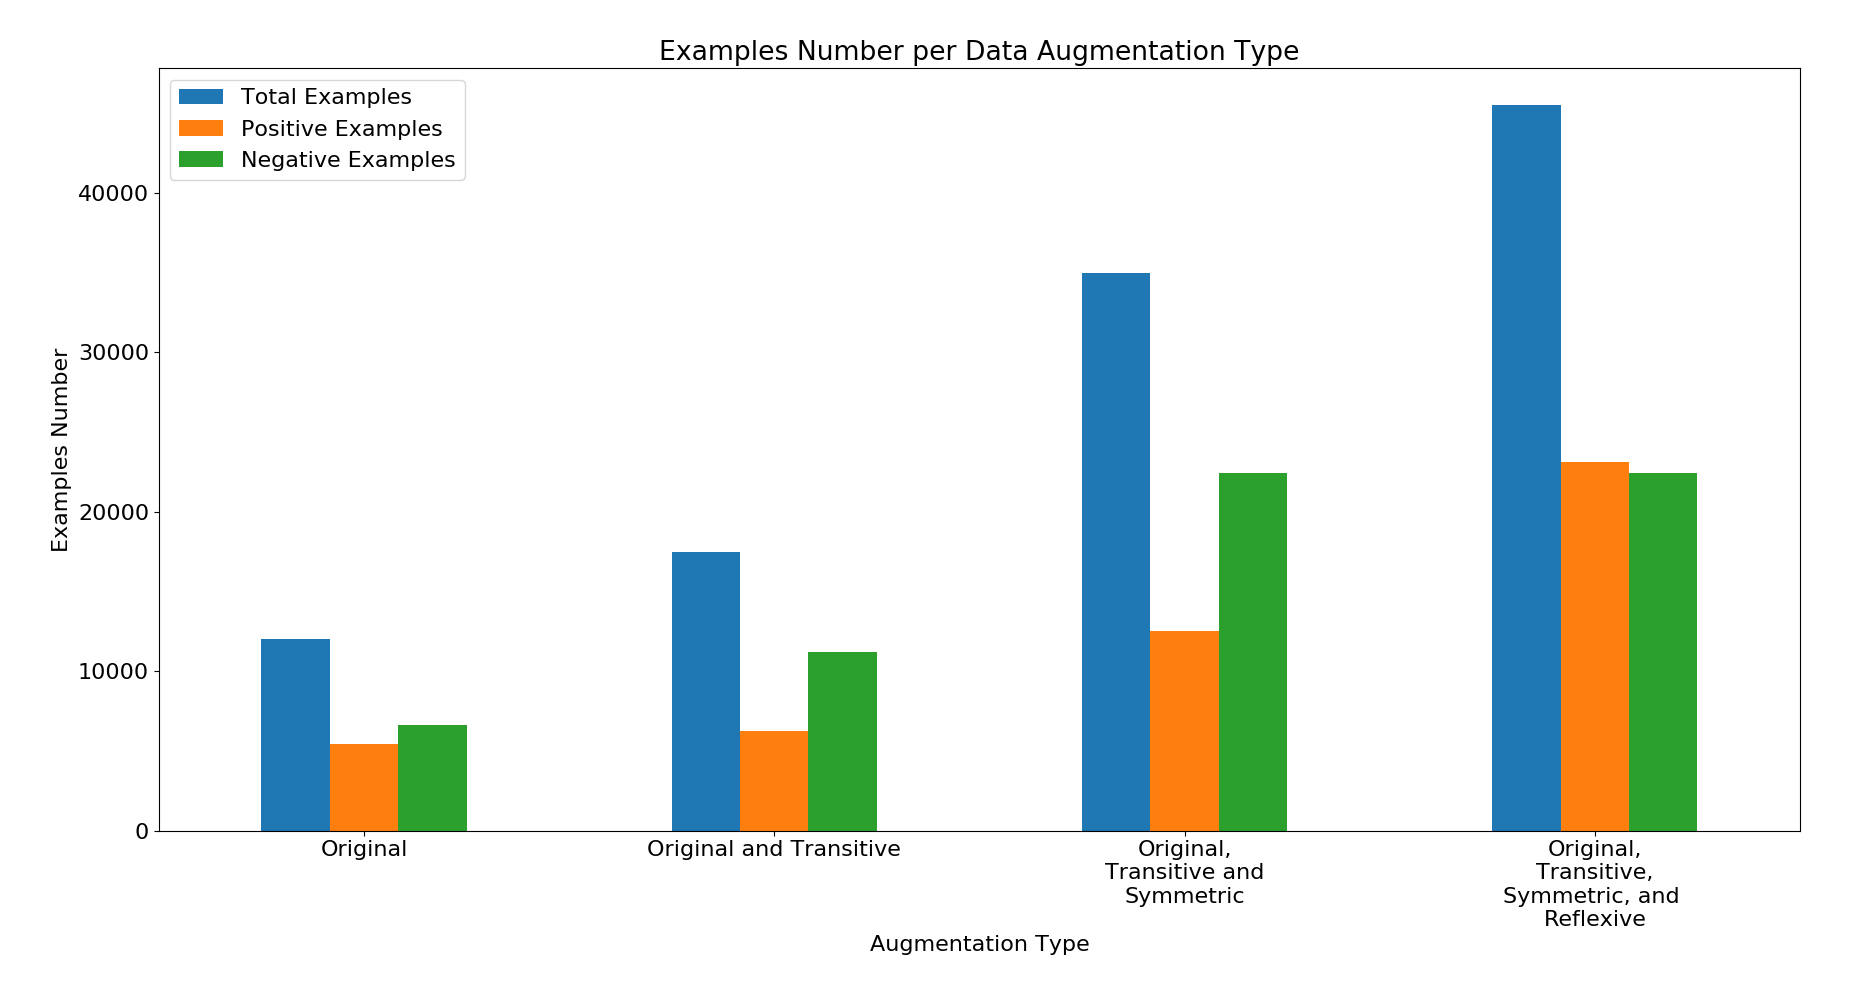
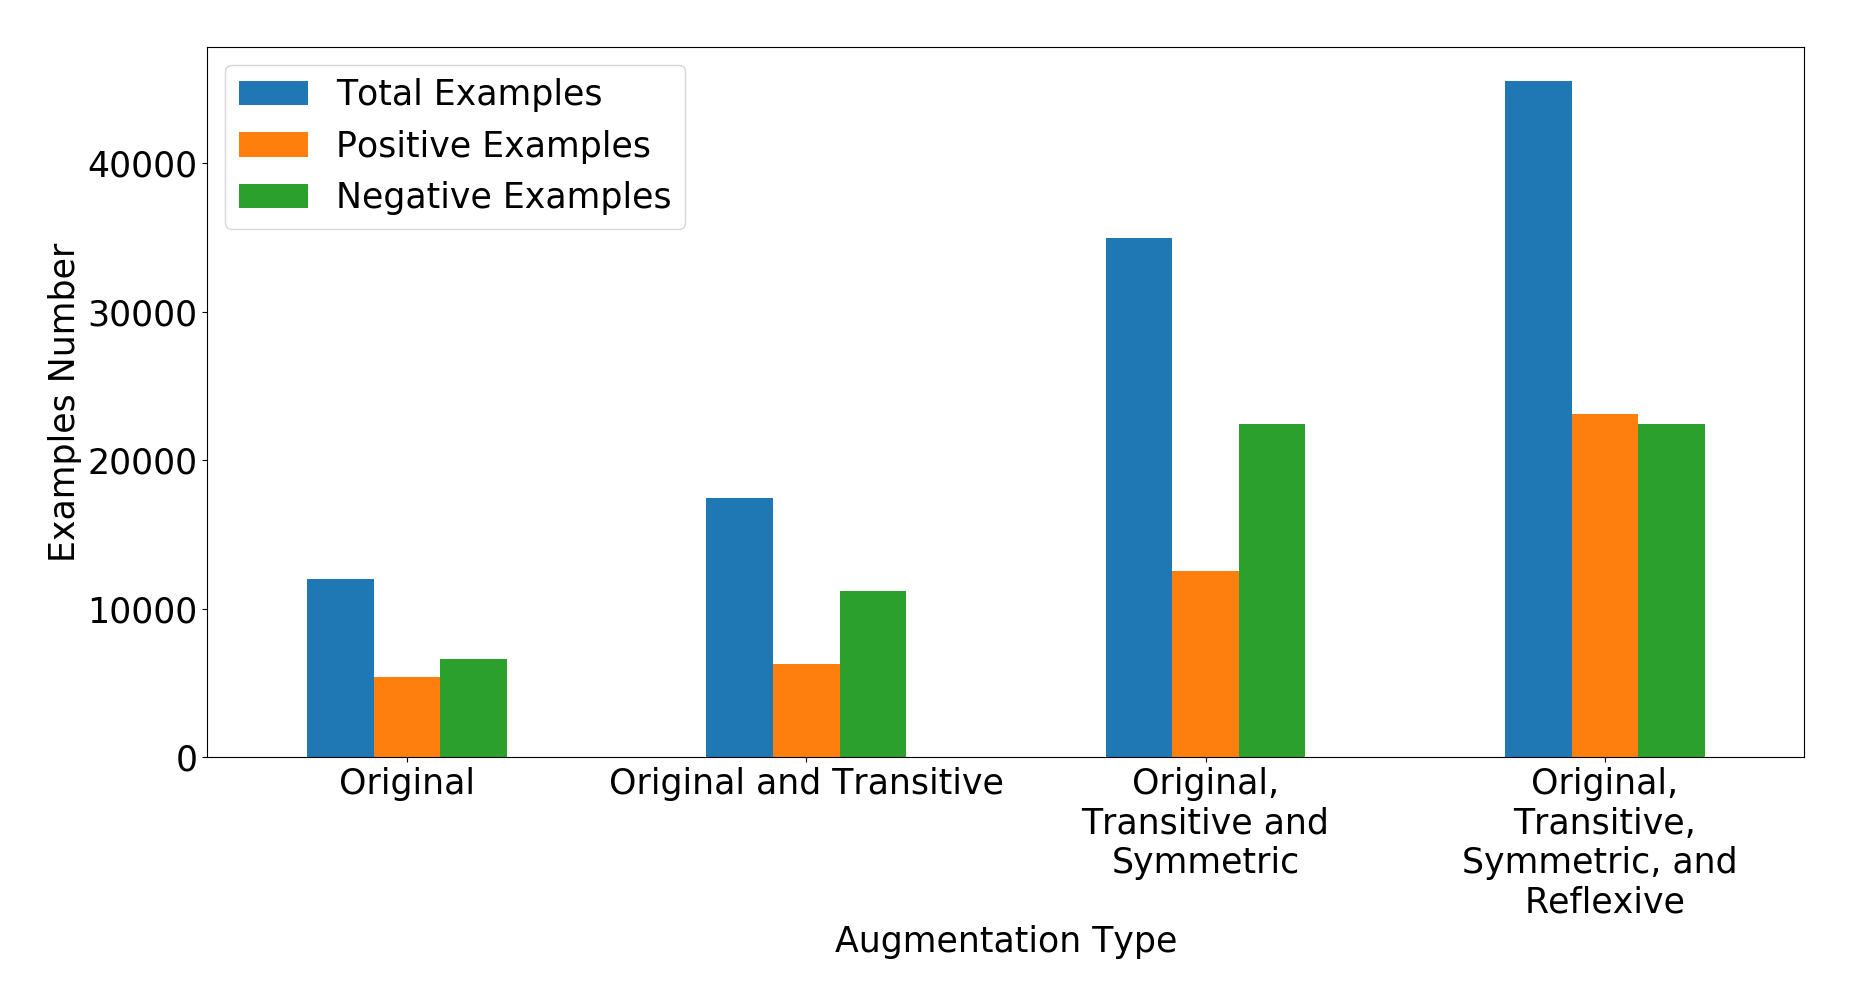
Update plots

diff --git a/plot_sequence_weighted_attention.py b/plot_sequence_weighted_attention.py
@@ -19,7 +19,7 @@ if __name__ == '__main__':
   parser = argparse.ArgumentParser()
   parser.add_argument('--data-dir', default='data_dir')
   parser.add_argument('--embeddings-type', default='elmo', choices=['elmo', 'bert'])
-  parser.add_argument('--model-path', default='sentences_embeddings_plots/plot_model.h5')
+  parser.add_argument('--model-path', default='plots/plot_model.h5')
   args = parser.parse_args()
 
   sentences = [
@@ -60,7 +60,7 @@ if __name__ == '__main__':
     sentence = list(reversed(sentence.split()))
     ax.set_xticklabels(
       ['', '<end>'] + [get_display(arabic_reshaper.reshape(word)) for word in sentence] + ['<start>'],
-      fontdict={'fontsize': 14},
+      fontdict={'fontsize': 22},
       rotation=0
     )
 

diff --git a/extract_sentences_embeddings.py b/extract_sentences_embeddings.py
@@ -17,7 +17,7 @@ if __name__ == '__main__':
   parser = argparse.ArgumentParser()
   parser.add_argument('--data-dir', default='data_dir')
   parser.add_argument('--embeddings-type', default='elmo', choices=['elmo', 'bert'])
-  parser.add_argument('--model-path', default='sentences_embeddings_plots/plot_model.h5')
+  parser.add_argument('--model-path', default='plots/plot_model.h5')
   args = parser.parse_args()
 
   embeddings_dict = load_embeddings_dict(join(args.data_dir, '%s_dict.pkl' % args.embeddings_type))

diff --git a/plot_examples_per_data_augmentation_type.py b/plot_examples_per_data_augmentation_type.py
@@ -1,7 +1,7 @@
 import pandas as pd
 import matplotlib.pyplot as plt
 
-plt.rcParams.update({'font.size': 16})
+plt.rcParams.update({'font.size': 25})
 
 augmentation_type = [
 	'Original',
@@ -23,7 +23,7 @@ df = pd.DataFrame({
 )
 
 ax = df.plot.bar(rot=0)
-ax.set_title('Examples Number per Data Augmentation Type')
+# ax.set_title('Examples Number per Data Augmentation Type')
 ax.set_xlabel('Augmentation Type')
 ax.set_ylabel('Examples Number')
 ax.autoscale_view()
